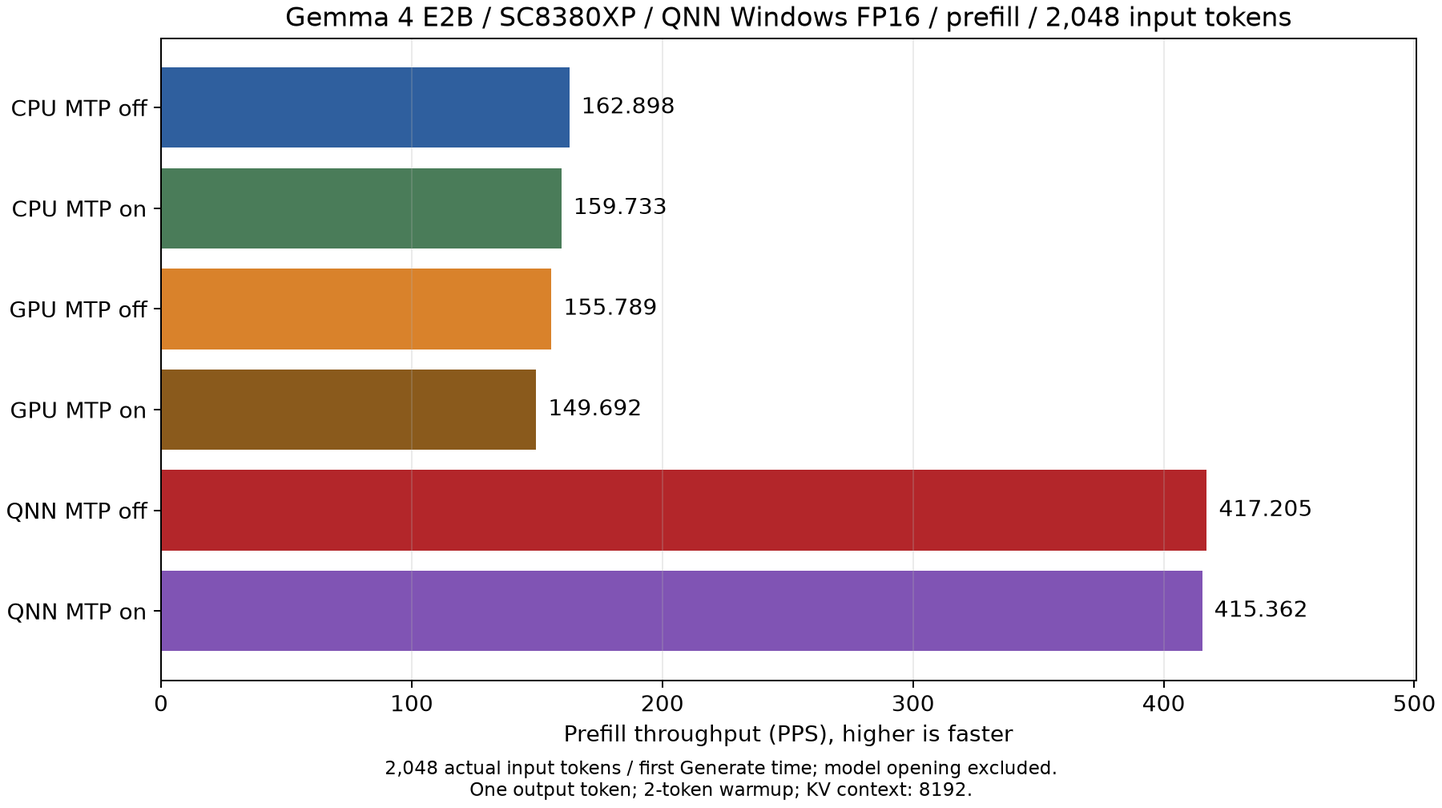
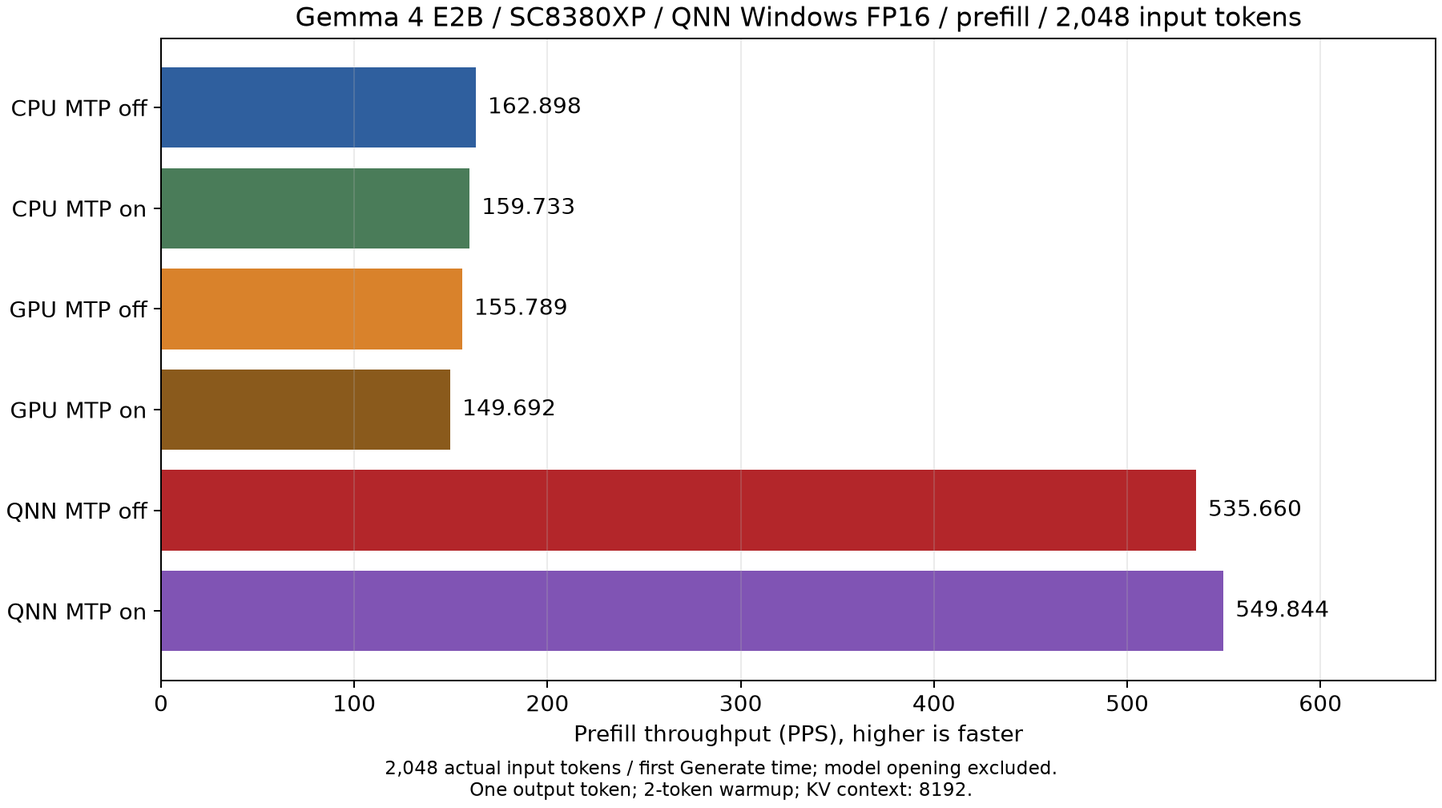
Refresh SC8380XP FP16 NPU results in MTP benchmark

diff --git a/llm/mtp-bench.html b/llm/mtp-bench.html
@@ -377,7 +377,7 @@ j=d.createElement(s),dl=l!='dataLayer'?'&l='+l:'';j.async=true;j.src=
       <tr><th>経路</th><th>MTP なし</th><th>MTP あり</th><th>MTP の効果</th><th>受理率</th></tr>
       <tr><td>CPU</td><td class="num">36.097 tokens/s</td><td class="num">45.952 tokens/s</td><td class="num">1.27 倍</td><td class="num">31.1%</td></tr>
       <tr><td>GPU</td><td class="num">15.789 tokens/s</td><td class="num">7.956 tokens/s</td><td class="num">0.50 倍</td><td class="num">39.0%</td></tr>
-      <tr><td>NPU</td><td class="num">7.488 tokens/s</td><td class="num">12.830 tokens/s</td><td class="num">1.71 倍</td><td class="num">35.2%</td></tr>
+      <tr><td>NPU</td><td class="num">7.396 tokens/s</td><td class="num">10.725 tokens/s</td><td class="num">1.45 倍</td><td class="num">31.2%</td></tr>
     </table>
     </div>
     <p>Decode は CPU が最も高速です。GPU は MTP ありで Decode が低下しました。</p>
@@ -398,11 +398,11 @@ j=d.createElement(s),dl=l!='dataLayer'?'&l='+l:'';j.async=true;j.src=
       <tr><td>CPU（MTP あり）</td><td class="num">226.239</td><td class="num">209.196</td><td class="num">212.324</td><td class="num">198.671</td><td class="num">179.041</td><td class="num">159.733</td></tr>
       <tr><td>GPU（MTP なし）</td><td class="num">191.567</td><td class="num">211.200</td><td class="num">226.293</td><td class="num">210.324</td><td class="num">185.268</td><td class="num">155.789</td></tr>
       <tr><td>GPU（MTP あり）</td><td class="num">110.794</td><td class="num">150.182</td><td class="num">181.306</td><td class="num">187.165</td><td class="num">173.085</td><td class="num">149.692</td></tr>
-      <tr><td>NPU（MTP なし）</td><td class="num">111.367</td><td class="num">218.215</td><td class="num">427.649</td><td class="num">429.607</td><td class="num">416.812</td><td class="num">417.205</td></tr>
-      <tr><td>NPU（MTP あり）</td><td class="num">109.650</td><td class="num">224.799</td><td class="num">436.772</td><td class="num">431.751</td><td class="num">423.681</td><td class="num">415.362</td></tr>
+      <tr><td>NPU（MTP なし）</td><td class="num">142.326</td><td class="num">268.719</td><td class="num">550.238</td><td class="num">558.241</td><td class="num">556.910</td><td class="num">535.660</td></tr>
+      <tr><td>NPU（MTP あり）</td><td class="num">146.658</td><td class="num">291.834</td><td class="num">572.231</td><td class="num">550.662</td><td class="num">545.243</td><td class="num">549.844</td></tr>
     </table>
     </div>
-    <p>256 トークン以上の入力では NPU が最も高速で、2,048 トークン入力では CPU（MTP なし）の 2.55 倍です。MTP の有無で NPU の Prefill はほぼ同じです。</p>
+    <p>128 トークン以上の入力では NPU が最も高速で、2,048 トークン入力では CPU（MTP なし）の 3.29 倍です。MTP の有無で NPU の Prefill はほぼ同じです。</p>
     <figure class="bench-figure">
       <img src="benchmark/mtp_pps_sc8380xp.png" alt="Snapdragon X Plus E2B の Prefill スループット（2,048 トークン入力、CPU / GPU / NPU、MTP なし / あり）" loading="lazy">
       <figcaption>SC8380XP（E2B / FP16）の Prefill スループット（2,048 トークン入力）</figcaption>
@@ -420,17 +420,17 @@ j=d.createElement(s),dl=l!='dataLayer'?'&l='+l:'';j.async=true;j.src=
       <tr><td>画像</td><td>CPU（MTP あり）</td><td class="num">77.44 秒</td><td class="num">61.421 tokens/s</td><td class="num">43.2%</td></tr>
       <tr><td>画像</td><td>GPU（MTP なし）</td><td class="num">77.83 秒</td><td class="num">17.383 tokens/s</td><td class="num">—</td></tr>
       <tr><td>画像</td><td>GPU（MTP あり）</td><td class="num">77.82 秒</td><td class="num">8.451 tokens/s</td><td class="num">41.7%</td></tr>
-      <tr><td>画像</td><td>NPU（MTP なし）</td><td class="num">7.42 秒</td><td class="num">7.603 tokens/s</td><td class="num">—</td></tr>
-      <tr><td>画像</td><td>NPU（MTP あり）</td><td class="num">6.79 秒</td><td class="num">10.305 tokens/s</td><td class="num">32.0%</td></tr>
+      <tr><td>画像</td><td>NPU（MTP なし）</td><td class="num">6.39 秒</td><td class="num">7.132 tokens/s</td><td class="num">—</td></tr>
+      <tr><td>画像</td><td>NPU（MTP あり）</td><td class="num">5.95 秒</td><td class="num">11.525 tokens/s</td><td class="num">39.9%</td></tr>
       <tr><td>音声</td><td>CPU（MTP なし）</td><td class="num">30.93 秒</td><td class="num">39.247 tokens/s</td><td class="num">—</td></tr>
       <tr><td>音声</td><td>CPU（MTP あり）</td><td class="num">30.75 秒</td><td class="num">103.169 tokens/s</td><td class="num">92.6%</td></tr>
       <tr><td>音声</td><td>GPU（MTP なし）</td><td class="num">30.77 秒</td><td class="num">16.935 tokens/s</td><td class="num">—</td></tr>
       <tr><td>音声</td><td>GPU（MTP あり）</td><td class="num">30.80 秒</td><td class="num">15.584 tokens/s</td><td class="num">92.6%</td></tr>
-      <tr><td>音声</td><td>NPU（MTP なし）</td><td class="num">5.03 秒</td><td class="num">8.088 tokens/s</td><td class="num">—</td></tr>
-      <tr><td>音声</td><td>NPU（MTP あり）</td><td class="num">5.03 秒</td><td class="num">16.327 tokens/s</td><td class="num">92.6%</td></tr>
+      <tr><td>音声</td><td>NPU（MTP なし）</td><td class="num">4.21 秒</td><td class="num">7.341 tokens/s</td><td class="num">—</td></tr>
+      <tr><td>音声</td><td>NPU（MTP あり）</td><td class="num">4.46 秒</td><td class="num">19.628 tokens/s</td><td class="num">92.6%</td></tr>
     </table>
     </div>
-    <p>NPU の TTFT は CPU（MTP なし）の 1/11.4（画像）、1/6.1（音声）です。NPU の Decode は MTP により、画像入力で 1.36 倍、音声入力で 2.02 倍になりました。</p>
+    <p>NPU の TTFT は CPU（MTP なし）の 1/13.0（画像）、1/6.9（音声）です。NPU の Decode は MTP により、画像入力で 1.62 倍、音声入力で 2.67 倍になりました。</p>
     <figure class="bench-figure">
       <img src="benchmark/mtp_media_ttft_sc8380xp.png" alt="Snapdragon X Plus E2B の VLM / 音声入力の TTFT 内訳（CPU / GPU / NPU、MTP なし / あり）" loading="lazy">
       <figcaption>SC8380XP（E2B / FP16）の VLM（左）/ 音声入力（右）の TTFT 内訳（エンコーダを含むプロンプト設定と、デコーダの Prefill + 最初のトークン）</figcaption>
@@ -444,9 +444,9 @@ j=d.createElement(s),dl=l!='dataLayer'?'&l='+l:'';j.async=true;j.src=
     <div class="table-wrap">
     <table class="version-table">
       <tr><th>入力</th><th>CPU（MTP なし）</th><th>CPU（MTP あり）</th><th>GPU（MTP なし）</th><th>GPU（MTP あり）</th><th>NPU（MTP なし）</th><th>NPU（MTP あり）</th></tr>
-      <tr><td>テキスト</td><td class="num">48.0%</td><td class="num">46.1%</td><td class="num">6.6%</td><td class="num">1.4%</td><td class="num">2.7%</td><td class="num">4.3%</td></tr>
-      <tr><td>画像</td><td class="num">48.5%</td><td class="num">47.7%</td><td class="num">6.2%</td><td class="num">2.8%</td><td class="num">3.0%</td><td class="num">5.1%</td></tr>
-      <tr><td>音声</td><td class="num">49.1%</td><td class="num">46.6%</td><td class="num">7.4%</td><td class="num">1.2%</td><td class="num">2.2%</td><td class="num">6.2%</td></tr>
+      <tr><td>テキスト</td><td class="num">48.0%</td><td class="num">46.1%</td><td class="num">6.6%</td><td class="num">1.4%</td><td class="num">2.8%</td><td class="num">4.9%</td></tr>
+      <tr><td>画像</td><td class="num">48.5%</td><td class="num">47.7%</td><td class="num">6.2%</td><td class="num">2.8%</td><td class="num">2.9%</td><td class="num">5.4%</td></tr>
+      <tr><td>音声</td><td class="num">49.1%</td><td class="num">46.6%</td><td class="num">7.4%</td><td class="num">1.2%</td><td class="num">2.7%</td><td class="num">4.9%</td></tr>
     </table>
     </div>
     <p>CPU は高性能コアの 4 コアで実行しているため、CPU の使用率は 50% 前後です。</p>
@@ -471,7 +471,7 @@ j=d.createElement(s),dl=l!='dataLayer'?'&l='+l:'';j.async=true;j.src=
       <tr><th>経路</th><th>MTP なし</th><th>MTP あり</th><th>MTP の効果</th><th>受理率</th></tr>
       <tr><td>CPU</td><td class="num">20.209 tokens/s</td><td class="num">34.010 tokens/s</td><td class="num">1.68 倍</td><td class="num">43.3%</td></tr>
       <tr><td>GPU</td><td class="num">8.434 tokens/s</td><td class="num">4.962 tokens/s</td><td class="num">0.59 倍</td><td class="num">38.2%</td></tr>
-      <tr><td>NPU</td><td class="num">4.311 tokens/s</td><td class="num">7.996 tokens/s</td><td class="num">1.85 倍</td><td class="num">39.4%</td></tr>
+      <tr><td>NPU</td><td class="num">4.346 tokens/s</td><td class="num">7.172 tokens/s</td><td class="num">1.65 倍</td><td class="num">33.4%</td></tr>
     </table>
     </div>
     <p>Decode は CPU が最も高速です。GPU は MTP ありで Decode が低下しました。</p>
@@ -492,11 +492,11 @@ j=d.createElement(s),dl=l!='dataLayer'?'&l='+l:'';j.async=true;j.src=
       <tr><td>CPU（MTP あり）</td><td class="num">114.588</td><td class="num">115.837</td><td class="num">117.360</td><td class="num">112.383</td><td class="num">104.566</td><td class="num">97.730</td></tr>
       <tr><td>GPU（MTP なし）</td><td class="num">101.494</td><td class="num">115.771</td><td class="num">122.735</td><td class="num">118.920</td><td class="num">108.919</td><td class="num">96.327</td></tr>
       <tr><td>GPU（MTP あり）</td><td class="num">64.261</td><td class="num">87.397</td><td class="num">102.919</td><td class="num">107.840</td><td class="num">102.897</td><td class="num">92.966</td></tr>
-      <tr><td>NPU（MTP なし）</td><td class="num">63.030</td><td class="num">127.516</td><td class="num">244.569</td><td class="num">254.622</td><td class="num">249.404</td><td class="num">248.349</td></tr>
-      <tr><td>NPU（MTP あり）</td><td class="num">63.413</td><td class="num">129.878</td><td class="num">254.998</td><td class="num">253.348</td><td class="num">250.169</td><td class="num">248.072</td></tr>
+      <tr><td>NPU（MTP なし）</td><td class="num">81.311</td><td class="num">161.784</td><td class="num">312.190</td><td class="num">325.714</td><td class="num">318.495</td><td class="num">317.629</td></tr>
+      <tr><td>NPU（MTP あり）</td><td class="num">81.512</td><td class="num">164.540</td><td class="num">324.876</td><td class="num">326.486</td><td class="num">321.507</td><td class="num">319.063</td></tr>
     </table>
     </div>
-    <p>256 トークン以上の入力では NPU が最も高速で、2,048 トークン入力では CPU（MTP なし）の 2.50 倍です。MTP の有無で NPU の Prefill はほぼ同じです。</p>
+    <p>128 トークン以上の入力では NPU が最も高速で、2,048 トークン入力では CPU（MTP なし）の 3.20 倍です。MTP の有無で NPU の Prefill はほぼ同じです。</p>
     <figure class="bench-figure">
       <img src="benchmark/mtp_pps_e4b_sc8380xp.png" alt="Snapdragon X Plus E4B の Prefill スループット（2,048 トークン入力、CPU / GPU / NPU、MTP なし / あり）" loading="lazy">
       <figcaption>SC8380XP（E4B / FP16）の Prefill スループット（2,048 トークン入力）</figcaption>
@@ -514,17 +514,17 @@ j=d.createElement(s),dl=l!='dataLayer'?'&l='+l:'';j.async=true;j.src=
       <tr><td>画像</td><td>CPU（MTP あり）</td><td class="num">78.75 秒</td><td class="num">33.824 tokens/s</td><td class="num">37.6%</td></tr>
       <tr><td>画像</td><td>GPU（MTP なし）</td><td class="num">79.38 秒</td><td class="num">9.423 tokens/s</td><td class="num">—</td></tr>
       <tr><td>画像</td><td>GPU（MTP あり）</td><td class="num">80.72 秒</td><td class="num">5.596 tokens/s</td><td class="num">41.7%</td></tr>
-      <tr><td>画像</td><td>NPU（MTP なし）</td><td class="num">10.69 秒</td><td class="num">4.337 tokens/s</td><td class="num">—</td></tr>
-      <tr><td>画像</td><td>NPU（MTP あり）</td><td class="num">9.11 秒</td><td class="num">7.592 tokens/s</td><td class="num">43.2%</td></tr>
+      <tr><td>画像</td><td>NPU（MTP なし）</td><td class="num">9.46 秒</td><td class="num">4.153 tokens/s</td><td class="num">—</td></tr>
+      <tr><td>画像</td><td>NPU（MTP あり）</td><td class="num">8.14 秒</td><td class="num">7.744 tokens/s</td><td class="num">43.4%</td></tr>
       <tr><td>音声</td><td>CPU（MTP なし）</td><td class="num">33.37 秒</td><td class="num">21.364 tokens/s</td><td class="num">—</td></tr>
       <tr><td>音声</td><td>CPU（MTP あり）</td><td class="num">33.17 秒</td><td class="num">58.900 tokens/s</td><td class="num">92.6%</td></tr>
       <tr><td>音声</td><td>GPU（MTP なし）</td><td class="num">33.04 秒</td><td class="num">9.406 tokens/s</td><td class="num">—</td></tr>
       <tr><td>音声</td><td>GPU（MTP あり）</td><td class="num">33.07 秒</td><td class="num">9.795 tokens/s</td><td class="num">92.6%</td></tr>
-      <tr><td>音声</td><td>NPU（MTP なし）</td><td class="num">7.78 秒</td><td class="num">4.219 tokens/s</td><td class="num">—</td></tr>
-      <tr><td>音声</td><td>NPU（MTP あり）</td><td class="num">7.39 秒</td><td class="num">11.986 tokens/s</td><td class="num">92.6%</td></tr>
+      <tr><td>音声</td><td>NPU（MTP なし）</td><td class="num">5.83 秒</td><td class="num">4.183 tokens/s</td><td class="num">—</td></tr>
+      <tr><td>音声</td><td>NPU（MTP あり）</td><td class="num">5.96 秒</td><td class="num">12.772 tokens/s</td><td class="num">92.6%</td></tr>
     </table>
     </div>
-    <p>NPU の TTFT は CPU（MTP なし）の 1/8.7（画像）、1/4.5（音声）です。NPU の Decode は MTP により、画像入力で 1.75 倍、音声入力で 2.84 倍になりました。</p>
+    <p>NPU の TTFT は CPU（MTP なし）の 1/9.7（画像）、1/5.6（音声）です。NPU の Decode は MTP により、画像入力で 1.86 倍、音声入力で 3.05 倍になりました。</p>
     <figure class="bench-figure">
       <img src="benchmark/mtp_media_ttft_e4b_sc8380xp.png" alt="Snapdragon X Plus E4B の VLM / 音声入力の TTFT 内訳（CPU / GPU / NPU、MTP なし / あり）" loading="lazy">
       <figcaption>SC8380XP（E4B / FP16）の VLM（左）/ 音声入力（右）の TTFT 内訳（エンコーダを含むプロンプト設定と、デコーダの Prefill + 最初のトークン）</figcaption>
@@ -538,9 +538,9 @@ j=d.createElement(s),dl=l!='dataLayer'?'&l='+l:'';j.async=true;j.src=
     <div class="table-wrap">
     <table class="version-table">
       <tr><th>入力</th><th>CPU（MTP なし）</th><th>CPU（MTP あり）</th><th>GPU（MTP なし）</th><th>GPU（MTP あり）</th><th>NPU（MTP なし）</th><th>NPU（MTP あり）</th></tr>
-      <tr><td>テキスト</td><td class="num">48.7%</td><td class="num">48.1%</td><td class="num">4.6%</td><td class="num">2.1%</td><td class="num">1.9%</td><td class="num">3.2%</td></tr>
-      <tr><td>画像</td><td class="num">49.0%</td><td class="num">47.9%</td><td class="num">5.4%</td><td class="num">2.6%</td><td class="num">1.9%</td><td class="num">3.7%</td></tr>
-      <tr><td>音声</td><td class="num">48.9%</td><td class="num">46.0%</td><td class="num">5.6%</td><td class="num">2.3%</td><td class="num">2.0%</td><td class="num">3.7%</td></tr>
+      <tr><td>テキスト</td><td class="num">48.7%</td><td class="num">48.1%</td><td class="num">4.6%</td><td class="num">2.1%</td><td class="num">1.8%</td><td class="num">3.0%</td></tr>
+      <tr><td>画像</td><td class="num">49.0%</td><td class="num">47.9%</td><td class="num">5.4%</td><td class="num">2.6%</td><td class="num">1.8%</td><td class="num">3.2%</td></tr>
+      <tr><td>音声</td><td class="num">48.9%</td><td class="num">46.0%</td><td class="num">5.6%</td><td class="num">2.3%</td><td class="num">1.7%</td><td class="num">3.2%</td></tr>
     </table>
     </div>
     <p>CPU は高性能コアの 4 コアで実行しているため、CPU の使用率は 50% 前後です。</p>

diff --git a/en/llm/mtp-bench.html b/en/llm/mtp-bench.html
@@ -377,7 +377,7 @@ j=d.createElement(s),dl=l!='dataLayer'?'&l='+l:'';j.async=true;j.src=
       <tr><th>Path</th><th>Without MTP</th><th>With MTP</th><th>MTP speedup</th><th>Acceptance</th></tr>
       <tr><td>CPU</td><td class="num">36.097 tokens/s</td><td class="num">45.952 tokens/s</td><td class="num">1.27x</td><td class="num">31.1%</td></tr>
       <tr><td>GPU</td><td class="num">15.789 tokens/s</td><td class="num">7.956 tokens/s</td><td class="num">0.50x</td><td class="num">39.0%</td></tr>
-      <tr><td>NPU</td><td class="num">7.488 tokens/s</td><td class="num">12.830 tokens/s</td><td class="num">1.71x</td><td class="num">35.2%</td></tr>
+      <tr><td>NPU</td><td class="num">7.396 tokens/s</td><td class="num">10.725 tokens/s</td><td class="num">1.45x</td><td class="num">31.2%</td></tr>
     </table>
     </div>
     <p>Decode is fastest on the CPU. On the GPU, decode became slower with MTP.</p>
@@ -398,11 +398,11 @@ j=d.createElement(s),dl=l!='dataLayer'?'&l='+l:'';j.async=true;j.src=
       <tr><td>CPU (with MTP)</td><td class="num">226.239</td><td class="num">209.196</td><td class="num">212.324</td><td class="num">198.671</td><td class="num">179.041</td><td class="num">159.733</td></tr>
       <tr><td>GPU (without MTP)</td><td class="num">191.567</td><td class="num">211.200</td><td class="num">226.293</td><td class="num">210.324</td><td class="num">185.268</td><td class="num">155.789</td></tr>
       <tr><td>GPU (with MTP)</td><td class="num">110.794</td><td class="num">150.182</td><td class="num">181.306</td><td class="num">187.165</td><td class="num">173.085</td><td class="num">149.692</td></tr>
-      <tr><td>NPU (without MTP)</td><td class="num">111.367</td><td class="num">218.215</td><td class="num">427.649</td><td class="num">429.607</td><td class="num">416.812</td><td class="num">417.205</td></tr>
-      <tr><td>NPU (with MTP)</td><td class="num">109.650</td><td class="num">224.799</td><td class="num">436.772</td><td class="num">431.751</td><td class="num">423.681</td><td class="num">415.362</td></tr>
+      <tr><td>NPU (without MTP)</td><td class="num">142.326</td><td class="num">268.719</td><td class="num">550.238</td><td class="num">558.241</td><td class="num">556.910</td><td class="num">535.660</td></tr>
+      <tr><td>NPU (with MTP)</td><td class="num">146.658</td><td class="num">291.834</td><td class="num">572.231</td><td class="num">550.662</td><td class="num">545.243</td><td class="num">549.844</td></tr>
     </table>
     </div>
-    <p>For inputs of 256 tokens or more the NPU is the fastest; for a 2,048-token input it is 2.55x the CPU (without MTP). NPU prefill is almost the same with and without MTP.</p>
+    <p>For inputs of 128 tokens or more the NPU is the fastest; for a 2,048-token input it is 3.29x the CPU (without MTP). NPU prefill is almost the same with and without MTP.</p>
     <figure class="bench-figure">
       <img src="../../llm/benchmark/mtp_pps_sc8380xp.png" alt="Snapdragon X Plus E2B prefill throughput (2,048-token input, CPU / GPU / NPU, without / with MTP)" loading="lazy">
       <figcaption>SC8380XP (E2B / FP16) prefill throughput (2,048-token input)</figcaption>
@@ -420,17 +420,17 @@ j=d.createElement(s),dl=l!='dataLayer'?'&l='+l:'';j.async=true;j.src=
       <tr><td>Image</td><td>CPU (with MTP)</td><td class="num">77.44 s</td><td class="num">61.421 tokens/s</td><td class="num">43.2%</td></tr>
       <tr><td>Image</td><td>GPU (without MTP)</td><td class="num">77.83 s</td><td class="num">17.383 tokens/s</td><td class="num">—</td></tr>
       <tr><td>Image</td><td>GPU (with MTP)</td><td class="num">77.82 s</td><td class="num">8.451 tokens/s</td><td class="num">41.7%</td></tr>
-      <tr><td>Image</td><td>NPU (without MTP)</td><td class="num">7.42 s</td><td class="num">7.603 tokens/s</td><td class="num">—</td></tr>
-      <tr><td>Image</td><td>NPU (with MTP)</td><td class="num">6.79 s</td><td class="num">10.305 tokens/s</td><td class="num">32.0%</td></tr>
+      <tr><td>Image</td><td>NPU (without MTP)</td><td class="num">6.39 s</td><td class="num">7.132 tokens/s</td><td class="num">—</td></tr>
+      <tr><td>Image</td><td>NPU (with MTP)</td><td class="num">5.95 s</td><td class="num">11.525 tokens/s</td><td class="num">39.9%</td></tr>
       <tr><td>Audio</td><td>CPU (without MTP)</td><td class="num">30.93 s</td><td class="num">39.247 tokens/s</td><td class="num">—</td></tr>
       <tr><td>Audio</td><td>CPU (with MTP)</td><td class="num">30.75 s</td><td class="num">103.169 tokens/s</td><td class="num">92.6%</td></tr>
       <tr><td>Audio</td><td>GPU (without MTP)</td><td class="num">30.77 s</td><td class="num">16.935 tokens/s</td><td class="num">—</td></tr>
       <tr><td>Audio</td><td>GPU (with MTP)</td><td class="num">30.80 s</td><td class="num">15.584 tokens/s</td><td class="num">92.6%</td></tr>
-      <tr><td>Audio</td><td>NPU (without MTP)</td><td class="num">5.03 s</td><td class="num">8.088 tokens/s</td><td class="num">—</td></tr>
-      <tr><td>Audio</td><td>NPU (with MTP)</td><td class="num">5.03 s</td><td class="num">16.327 tokens/s</td><td class="num">92.6%</td></tr>
+      <tr><td>Audio</td><td>NPU (without MTP)</td><td class="num">4.21 s</td><td class="num">7.341 tokens/s</td><td class="num">—</td></tr>
+      <tr><td>Audio</td><td>NPU (with MTP)</td><td class="num">4.46 s</td><td class="num">19.628 tokens/s</td><td class="num">92.6%</td></tr>
     </table>
     </div>
-    <p>NPU TTFT is 1/11.4 (image) and 1/6.1 (audio) of the CPU (without MTP). With MTP, NPU decode became 1.36x for image input and 2.02x for audio input.</p>
+    <p>NPU TTFT is 1/13.0 (image) and 1/6.9 (audio) of the CPU (without MTP). With MTP, NPU decode became 1.62x for image input and 2.67x for audio input.</p>
     <figure class="bench-figure">
       <img src="../../llm/benchmark/mtp_media_ttft_sc8380xp.png" alt="Snapdragon X Plus E2B VLM / audio input TTFT breakdown (CPU / GPU / NPU, without / with MTP)" loading="lazy">
       <figcaption>SC8380XP (E2B / FP16) VLM (left) and audio input (right) TTFT breakdown (prompt setup including the encoder, and decoder prefill plus the first token)</figcaption>
@@ -444,9 +444,9 @@ j=d.createElement(s),dl=l!='dataLayer'?'&l='+l:'';j.async=true;j.src=
     <div class="table-wrap">
     <table class="version-table">
       <tr><th>Input</th><th>CPU (without MTP)</th><th>CPU (with MTP)</th><th>GPU (without MTP)</th><th>GPU (with MTP)</th><th>NPU (without MTP)</th><th>NPU (with MTP)</th></tr>
-      <tr><td>Text</td><td class="num">48.0%</td><td class="num">46.1%</td><td class="num">6.6%</td><td class="num">1.4%</td><td class="num">2.7%</td><td class="num">4.3%</td></tr>
-      <tr><td>Image</td><td class="num">48.5%</td><td class="num">47.7%</td><td class="num">6.2%</td><td class="num">2.8%</td><td class="num">3.0%</td><td class="num">5.1%</td></tr>
-      <tr><td>Audio</td><td class="num">49.1%</td><td class="num">46.6%</td><td class="num">7.4%</td><td class="num">1.2%</td><td class="num">2.2%</td><td class="num">6.2%</td></tr>
+      <tr><td>Text</td><td class="num">48.0%</td><td class="num">46.1%</td><td class="num">6.6%</td><td class="num">1.4%</td><td class="num">2.8%</td><td class="num">4.9%</td></tr>
+      <tr><td>Image</td><td class="num">48.5%</td><td class="num">47.7%</td><td class="num">6.2%</td><td class="num">2.8%</td><td class="num">2.9%</td><td class="num">5.4%</td></tr>
+      <tr><td>Audio</td><td class="num">49.1%</td><td class="num">46.6%</td><td class="num">7.4%</td><td class="num">1.2%</td><td class="num">2.7%</td><td class="num">4.9%</td></tr>
     </table>
     </div>
     <p>The CPU runs on the 4 performance cores, so CPU usage stays around 50%.</p>
@@ -471,7 +471,7 @@ j=d.createElement(s),dl=l!='dataLayer'?'&l='+l:'';j.async=true;j.src=
       <tr><th>Path</th><th>Without MTP</th><th>With MTP</th><th>MTP speedup</th><th>Acceptance</th></tr>
       <tr><td>CPU</td><td class="num">20.209 tokens/s</td><td class="num">34.010 tokens/s</td><td class="num">1.68x</td><td class="num">43.3%</td></tr>
       <tr><td>GPU</td><td class="num">8.434 tokens/s</td><td class="num">4.962 tokens/s</td><td class="num">0.59x</td><td class="num">38.2%</td></tr>
-      <tr><td>NPU</td><td class="num">4.311 tokens/s</td><td class="num">7.996 tokens/s</td><td class="num">1.85x</td><td class="num">39.4%</td></tr>
+      <tr><td>NPU</td><td class="num">4.346 tokens/s</td><td class="num">7.172 tokens/s</td><td class="num">1.65x</td><td class="num">33.4%</td></tr>
     </table>
     </div>
     <p>Decode is fastest on the CPU. On the GPU, decode became slower with MTP.</p>
@@ -492,11 +492,11 @@ j=d.createElement(s),dl=l!='dataLayer'?'&l='+l:'';j.async=true;j.src=
       <tr><td>CPU (with MTP)</td><td class="num">114.588</td><td class="num">115.837</td><td class="num">117.360</td><td class="num">112.383</td><td class="num">104.566</td><td class="num">97.730</td></tr>
       <tr><td>GPU (without MTP)</td><td class="num">101.494</td><td class="num">115.771</td><td class="num">122.735</td><td class="num">118.920</td><td class="num">108.919</td><td class="num">96.327</td></tr>
       <tr><td>GPU (with MTP)</td><td class="num">64.261</td><td class="num">87.397</td><td class="num">102.919</td><td class="num">107.840</td><td class="num">102.897</td><td class="num">92.966</td></tr>
-      <tr><td>NPU (without MTP)</td><td class="num">63.030</td><td class="num">127.516</td><td class="num">244.569</td><td class="num">254.622</td><td class="num">249.404</td><td class="num">248.349</td></tr>
-      <tr><td>NPU (with MTP)</td><td class="num">63.413</td><td class="num">129.878</td><td class="num">254.998</td><td class="num">253.348</td><td class="num">250.169</td><td class="num">248.072</td></tr>
+      <tr><td>NPU (without MTP)</td><td class="num">81.311</td><td class="num">161.784</td><td class="num">312.190</td><td class="num">325.714</td><td class="num">318.495</td><td class="num">317.629</td></tr>
+      <tr><td>NPU (with MTP)</td><td class="num">81.512</td><td class="num">164.540</td><td class="num">324.876</td><td class="num">326.486</td><td class="num">321.507</td><td class="num">319.063</td></tr>
     </table>
     </div>
-    <p>For inputs of 256 tokens or more the NPU is the fastest; for a 2,048-token input it is 2.50x the CPU (without MTP). NPU prefill is almost the same with and without MTP.</p>
+    <p>For inputs of 128 tokens or more the NPU is the fastest; for a 2,048-token input it is 3.20x the CPU (without MTP). NPU prefill is almost the same with and without MTP.</p>
     <figure class="bench-figure">
       <img src="../../llm/benchmark/mtp_pps_e4b_sc8380xp.png" alt="Snapdragon X Plus E4B prefill throughput (2,048-token input, CPU / GPU / NPU, without / with MTP)" loading="lazy">
       <figcaption>SC8380XP (E4B / FP16) prefill throughput (2,048-token input)</figcaption>
@@ -514,17 +514,17 @@ j=d.createElement(s),dl=l!='dataLayer'?'&l='+l:'';j.async=true;j.src=
       <tr><td>Image</td><td>CPU (with MTP)</td><td class="num">78.75 s</td><td class="num">33.824 tokens/s</td><td class="num">37.6%</td></tr>
       <tr><td>Image</td><td>GPU (without MTP)</td><td class="num">79.38 s</td><td class="num">9.423 tokens/s</td><td class="num">—</td></tr>
       <tr><td>Image</td><td>GPU (with MTP)</td><td class="num">80.72 s</td><td class="num">5.596 tokens/s</td><td class="num">41.7%</td></tr>
-      <tr><td>Image</td><td>NPU (without MTP)</td><td class="num">10.69 s</td><td class="num">4.337 tokens/s</td><td class="num">—</td></tr>
-      <tr><td>Image</td><td>NPU (with MTP)</td><td class="num">9.11 s</td><td class="num">7.592 tokens/s</td><td class="num">43.2%</td></tr>
+      <tr><td>Image</td><td>NPU (without MTP)</td><td class="num">9.46 s</td><td class="num">4.153 tokens/s</td><td class="num">—</td></tr>
+      <tr><td>Image</td><td>NPU (with MTP)</td><td class="num">8.14 s</td><td class="num">7.744 tokens/s</td><td class="num">43.4%</td></tr>
       <tr><td>Audio</td><td>CPU (without MTP)</td><td class="num">33.37 s</td><td class="num">21.364 tokens/s</td><td class="num">—</td></tr>
       <tr><td>Audio</td><td>CPU (with MTP)</td><td class="num">33.17 s</td><td class="num">58.900 tokens/s</td><td class="num">92.6%</td></tr>
       <tr><td>Audio</td><td>GPU (without MTP)</td><td class="num">33.04 s</td><td class="num">9.406 tokens/s</td><td class="num">—</td></tr>
       <tr><td>Audio</td><td>GPU (with MTP)</td><td class="num">33.07 s</td><td class="num">9.795 tokens/s</td><td class="num">92.6%</td></tr>
-      <tr><td>Audio</td><td>NPU (without MTP)</td><td class="num">7.78 s</td><td class="num">4.219 tokens/s</td><td class="num">—</td></tr>
-      <tr><td>Audio</td><td>NPU (with MTP)</td><td class="num">7.39 s</td><td class="num">11.986 tokens/s</td><td class="num">92.6%</td></tr>
+      <tr><td>Audio</td><td>NPU (without MTP)</td><td class="num">5.83 s</td><td class="num">4.183 tokens/s</td><td class="num">—</td></tr>
+      <tr><td>Audio</td><td>NPU (with MTP)</td><td class="num">5.96 s</td><td class="num">12.772 tokens/s</td><td class="num">92.6%</td></tr>
     </table>
     </div>
-    <p>NPU TTFT is 1/8.7 (image) and 1/4.5 (audio) of the CPU (without MTP). With MTP, NPU decode became 1.75x for image input and 2.84x for audio input.</p>
+    <p>NPU TTFT is 1/9.7 (image) and 1/5.6 (audio) of the CPU (without MTP). With MTP, NPU decode became 1.86x for image input and 3.05x for audio input.</p>
     <figure class="bench-figure">
       <img src="../../llm/benchmark/mtp_media_ttft_e4b_sc8380xp.png" alt="Snapdragon X Plus E4B VLM / audio input TTFT breakdown (CPU / GPU / NPU, without / with MTP)" loading="lazy">
       <figcaption>SC8380XP (E4B / FP16) VLM (left) and audio input (right) TTFT breakdown (prompt setup including the encoder, and decoder prefill plus the first token)</figcaption>
@@ -538,9 +538,9 @@ j=d.createElement(s),dl=l!='dataLayer'?'&l='+l:'';j.async=true;j.src=
     <div class="table-wrap">
     <table class="version-table">
       <tr><th>Input</th><th>CPU (without MTP)</th><th>CPU (with MTP)</th><th>GPU (without MTP)</th><th>GPU (with MTP)</th><th>NPU (without MTP)</th><th>NPU (with MTP)</th></tr>
-      <tr><td>Text</td><td class="num">48.7%</td><td class="num">48.1%</td><td class="num">4.6%</td><td class="num">2.1%</td><td class="num">1.9%</td><td class="num">3.2%</td></tr>
-      <tr><td>Image</td><td class="num">49.0%</td><td class="num">47.9%</td><td class="num">5.4%</td><td class="num">2.6%</td><td class="num">1.9%</td><td class="num">3.7%</td></tr>
-      <tr><td>Audio</td><td class="num">48.9%</td><td class="num">46.0%</td><td class="num">5.6%</td><td class="num">2.3%</td><td class="num">2.0%</td><td class="num">3.7%</td></tr>
+      <tr><td>Text</td><td class="num">48.7%</td><td class="num">48.1%</td><td class="num">4.6%</td><td class="num">2.1%</td><td class="num">1.8%</td><td class="num">3.0%</td></tr>
+      <tr><td>Image</td><td class="num">49.0%</td><td class="num">47.9%</td><td class="num">5.4%</td><td class="num">2.6%</td><td class="num">1.8%</td><td class="num">3.2%</td></tr>
+      <tr><td>Audio</td><td class="num">48.9%</td><td class="num">46.0%</td><td class="num">5.6%</td><td class="num">2.3%</td><td class="num">1.7%</td><td class="num">3.2%</td></tr>
     </table>
     </div>
     <p>The CPU runs on the 4 performance cores, so CPU usage stays around 50%.</p>

diff --git a/llm/mtp.html b/llm/mtp.html
@@ -83,7 +83,7 @@ j=d.createElement(s),dl=l!='dataLayer'?'&l='+l:'';j.async=true;j.src=
     <p>このページは <a href="qnn.html">ailia LLM NPU（QNN）ガイド</a> からの差分として、MTP に必要なモデルと API を説明します。NPU のセットアップ（QNN ランタイムの配置、Android の設定、SoC 名の取得）は QNN ガイドと共通です。測定結果は <a href="mtp-bench.html">ailia LLM MTP ベンチマーク</a> を参照してください。</p>
 
     <h2>MTP による Decode の高速化</h2>
-    <p>Gemma 4 E2B のテキスト生成では、MTP により NPU の Decode が Snapdragon 8+ Gen 1 で 1.61 倍、Snapdragon 7s Gen 3 で 1.58 倍、Snapdragon X Plus で 1.71 倍（E4B は 1.85 倍）になりました。音声の書き起こしでは 2.02〜3.38 倍（E2B）です。</p>
+    <p>Gemma 4 E2B のテキスト生成では、MTP により NPU の Decode が Snapdragon 8+ Gen 1 で 1.61 倍、Snapdragon 7s Gen 3 で 1.58 倍、Snapdragon X Plus で 1.45 倍（E4B は 1.65 倍）になりました。音声の書き起こしでは 2.49〜3.38 倍（E2B）です。</p>
     <p>QNN 単体（AR-1 による 1 トークンずつの生成）では、NPU の Decode は Prefill ほど速くならず、Android 端末でも CPU と同等か下回っていました。MTP では本体の 1 回の実行で複数トークンを確定できるため、Decode でも NPU の並列演算を利用できます。CPU（4 スレッド）でも MTP を使用でき、Snapdragon 7s Gen 3 の E2B では CPU の Decode も 1.35 倍になります。</p>
     <div class="hbar-chart">
       <div class="hbar-title">Snapdragon 8+ Gen 1（SM8475）E2B / FP16：テキスト生成の Decode</div>

diff --git a/en/llm/mtp.html b/en/llm/mtp.html
@@ -83,7 +83,7 @@ j=d.createElement(s),dl=l!='dataLayer'?'&l='+l:'';j.async=true;j.src=
     <p>This page describes the models and API needed for MTP as a delta from the <a href="qnn.html">ailia LLM NPU (QNN) Guide</a>. NPU setup (deploying the QNN runtime, Android configuration, getting the SoC name) is the same as in the QNN Guide. For measurements, see the <a href="mtp-bench.html">ailia LLM MTP Benchmark</a>.</p>
 
     <h2>Faster decode with MTP</h2>
-    <p>For Gemma 4 E2B text generation, MTP made NPU decode 1.61x on Snapdragon 8+ Gen 1, 1.58x on Snapdragon 7s Gen 3 and 1.71x on Snapdragon X Plus (1.85x for E4B). For audio transcription it is 2.02x to 3.38x (E2B).</p>
+    <p>For Gemma 4 E2B text generation, MTP made NPU decode 1.61x on Snapdragon 8+ Gen 1, 1.58x on Snapdragon 7s Gen 3 and 1.45x on Snapdragon X Plus (1.65x for E4B). For audio transcription it is 2.49x to 3.38x (E2B).</p>
     <p>With QNN alone (one-token-at-a-time generation with AR-1), NPU decode does not speed up as much as prefill, and even on Android devices it was equal to or slower than the CPU. With MTP, multiple tokens can be committed per main-model run, so decode can also use the NPU's parallel compute. MTP can also be used on the CPU (4 threads); for E2B on Snapdragon 7s Gen 3, CPU decode is also 1.35x.</p>
     <div class="hbar-chart">
       <div class="hbar-title">Snapdragon 8+ Gen 1 (SM8475) E2B / FP16: text generation decode</div>

diff --git a/llm/qnn.html b/llm/qnn.html
@@ -105,7 +105,7 @@ j=d.createElement(s),dl=l!='dataLayer'?'&l='+l:'';j.async=true;j.src=
       <strong>注意:</strong> QNN バックエンドは ailia LLM 1.5.0 以降で利用できます。
     </div>
     <div class="note">
-      <strong>MTP:</strong> ailia LLM 1.5.1 以降は MTP（Multi-Token Prediction）に対応し、NPU の Decode が Gemma 4 E2B で 1.58〜1.71 倍（音声の書き起こしでは 2.02〜3.38 倍）になります。使い方は <a href="mtp.html">ailia LLM MTP ガイド</a>、測定結果は <a href="mtp-bench.html">ailia LLM MTP ベンチマーク</a> を参照してください。
+      <strong>MTP:</strong> ailia LLM 1.5.1 以降は MTP（Multi-Token Prediction）に対応し、NPU の Decode が Gemma 4 E2B で 1.45〜1.66 倍（音声の書き起こしでは 2.49〜3.38 倍）になります。使い方は <a href="mtp.html">ailia LLM MTP ガイド</a>、測定結果は <a href="mtp-bench.html">ailia LLM MTP ベンチマーク</a> を参照してください。
     </div>
 
     <h2>対応プラットフォーム</h2>

diff --git a/en/llm/qnn.html b/en/llm/qnn.html
@@ -105,7 +105,7 @@ j=d.createElement(s),dl=l!='dataLayer'?'&l='+l:'';j.async=true;j.src=
       <strong>Note:</strong> The QNN backend is available in ailia LLM 1.5.0 and later.
     </div>
     <div class="note">
-      <strong>MTP:</strong> ailia LLM 1.5.1 and later support MTP (Multi-Token Prediction), which makes NPU decode 1.58x to 1.71x for Gemma 4 E2B (2.02x to 3.38x for audio transcription). See the <a href="mtp.html">ailia LLM MTP Guide</a> for usage and the <a href="mtp-bench.html">ailia LLM MTP Benchmark</a> for measurements.
+      <strong>MTP:</strong> ailia LLM 1.5.1 and later support MTP (Multi-Token Prediction), which makes NPU decode 1.45x to 1.66x for Gemma 4 E2B (2.49x to 3.38x for audio transcription). See the <a href="mtp.html">ailia LLM MTP Guide</a> for usage and the <a href="mtp-bench.html">ailia LLM MTP Benchmark</a> for measurements.
     </div>
 
     <h2>Supported Platforms</h2>
